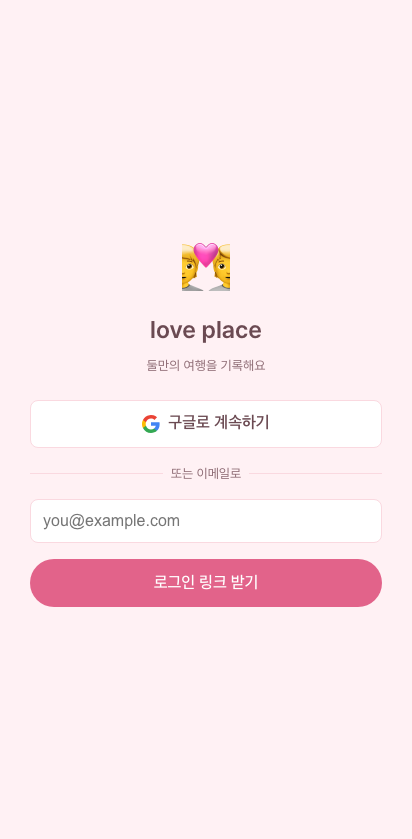
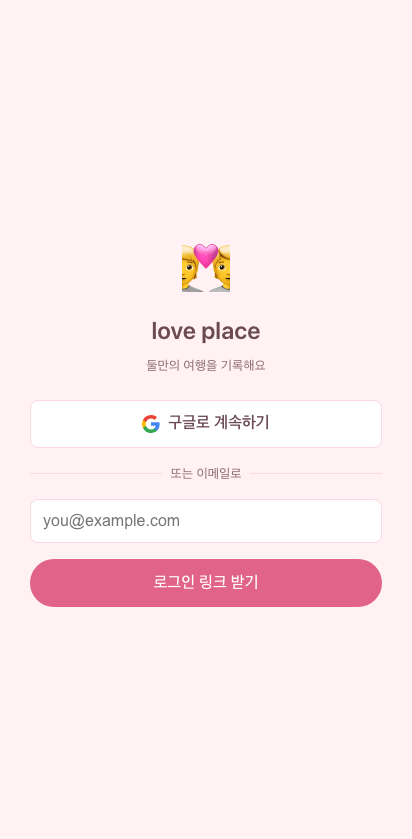
test(e2e): 폰트 요청 차단으로 스냅샷 결정론화(self-host 웹폰트 로딩 플래키 제거)
seed.ts blockFonts(woff/woff2/ttf/otf abort) → seedAuthedMap·smoke에서 폴백 폰트로 일관 렌더.
연속 2회 25/25 통과 확인. 앱/프로덕션 폰트는 영향 없음. 베이스라인 1장 갱신.

Changed region(s): [[0.3495, 0.2789, 0.6408, 0.4029], [0.3786, 0.6818, 0.4078, 0.7128]]

diff --git a/e2e/harness/seed.ts b/e2e/harness/seed.ts
@@ -19,6 +19,12 @@ function jsonRoute(body: unknown) {
     route.fulfill({ status: 200, contentType: 'application/json', body: JSON.stringify(body) })
 }
 
+// self-host 웹폰트(Pretendard/Quicksand) 요청 차단 → e2e는 결정론적 폴백 폰트로 렌더한다.
+// (웹폰트 비동기 로딩 타이밍이 스냅샷을 간헐 플래키하게 만들던 것 제거. 앱/프로덕션 폰트는 영향 없음.)
+export async function blockFonts(page: Page): Promise<void> {
+  await page.route(/\.(?:woff2?|ttf|otf)(?:\?.*)?$/i, (route) => route.abort())
+}
+
 export async function seedAuthedMap(page: Page, tables: SeedTables = {}): Promise<void> {
   const session = {
     access_token: 'e2e', token_type: 'bearer', expires_in: 3600, expires_at: FAR_FUTURE,
@@ -29,6 +35,7 @@ export async function seedAuthedMap(page: Page, tables: SeedTables = {}): Promis
     window.localStorage.setItem(key as string, val as string)
   }, ['sb-e2e-auth-token', JSON.stringify(session)])
 
+  await blockFonts(page)
   await page.route(NAVER_SCRIPT_GLOB, (route) =>
     route.fulfill({ status: 200, contentType: 'application/javascript', body: NAVER_STUB_JS }),
   )

diff --git a/e2e/smoke.spec.ts b/e2e/smoke.spec.ts
@@ -1,6 +1,7 @@
 import { test, expect } from '@playwright/test'
 import { existsSync } from 'node:fs'
 import { fileURLToPath } from 'node:url'
+import { blockFonts } from './harness/seed'
 
 // P0b 이후: 탭은 로그인 뒤에 있다. 키 없는 빌드(e2e 환경)에선 비로그인 → /auth(로그인 화면)로 간다.
 // 로그인 후 화면은 인증이 필요해 e2e 스모크에선 다루지 않고, 라우팅/렌더 단위는 vitest가 검증.
@@ -12,6 +13,7 @@ test('보호된 루트(/)는 로그인 화면으로 보낸다', async ({ page })
 })
 
 test('로그인 화면이 모바일 뷰포트에서 렌더된다', async ({ page }) => {
+  await blockFonts(page) // 결정론적 폴백 폰트(스냅샷 플래키 제거)
   await page.goto('/auth')
   await expect(page.getByRole('heading', { name: 'love place' })).toBeVisible()
 